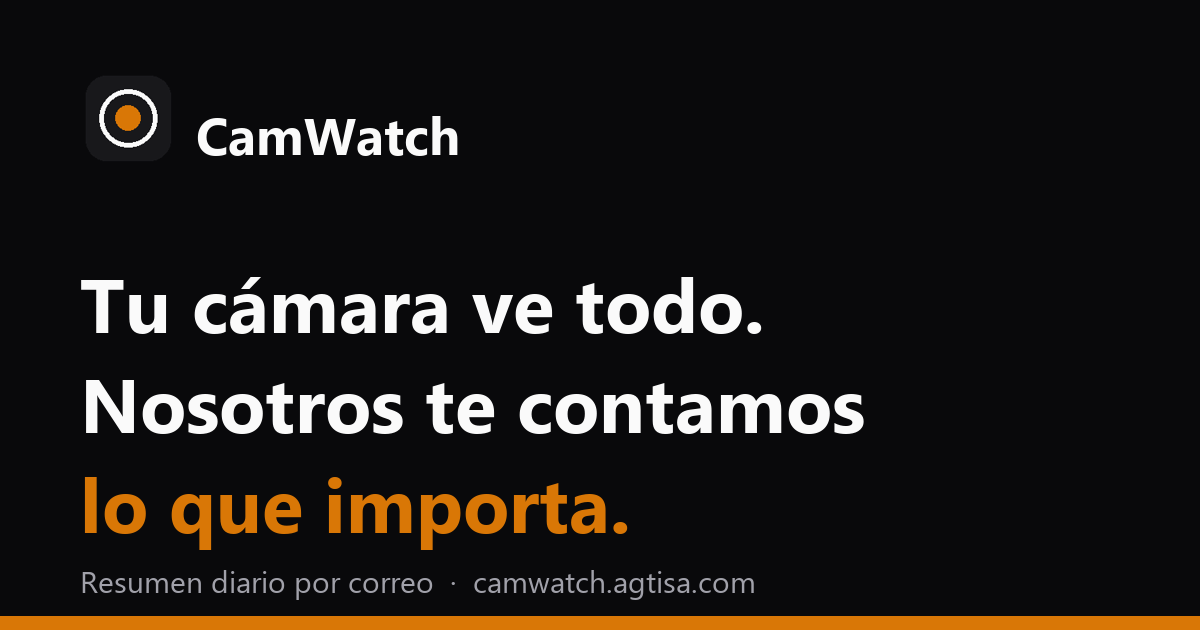
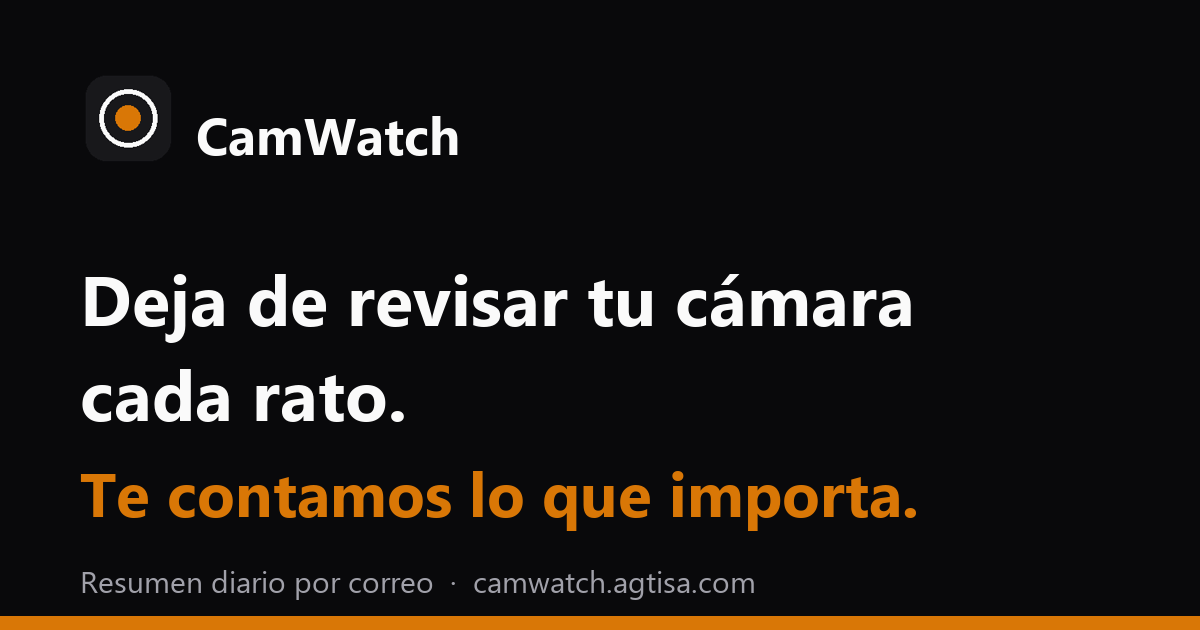
Update hero copy and CTA wording

Changed region(s): [[0.0617, 0.4222, 0.7708, 0.5429], [0.0617, 0.754, 0.7708, 0.8746], [0.0617, 0.6032, 0.74, 0.6937]]

diff --git a/index.html b/index.html
@@ -3,7 +3,7 @@
 <head>
 <meta charset="utf-8">
 <meta name="viewport" content="width=device-width, initial-scale=1, viewport-fit=cover">
-<title>CamWatch — Tu cámara vigila, nosotros te contamos lo que importa</title>
+<title>CamWatch — Deja de revisar tu cámara cada rato</title>
 <meta name="description" content="CamWatch revisa los eventos de tu cámara y te envía un resumen claro por correo: todo normal o algo que merece tu atención. Sin apps nuevas, sin notificaciones a cada rato.">
 <meta name="theme-color" content="#fafaf9">
 <link rel="manifest" href="manifest.webmanifest">
@@ -15,7 +15,7 @@
 <!-- Open Graph para Facebook -->
 <meta property="og:type" content="website">
 <meta property="og:url" content="https://camwatch.agtisa.com/">
-<meta property="og:title" content="CamWatch — Tu cámara ve todo. Nosotros te contamos lo que importa.">
+<meta property="og:title" content="CamWatch — Deja de revisar tu cámara cada rato. Te contamos lo que importa.">
 <meta property="og:description" content="Un resumen diario en español de lo que pasó frente a tu cámara. Sin notificaciones a cada rato. Primera semana gratis.">
 <meta property="og:image" content="https://camwatch.agtisa.com/og-image.png">
 <style>
@@ -86,10 +86,10 @@
   </header>
 
   <section class="hero">
-    <h1>Tu cámara ve todo.<br><span class="em">Nosotros te contamos lo que importa.</span></h1>
+    <h1>Deja de revisar tu cámara cada rato.<br><span class="em">Te contamos lo que importa.</span></h1>
     <p>¿Cansado de notificaciones a cada rato? CamWatch revisa los eventos de tu cámara
        y te manda un solo resumen claro por correo: <b>todo normal</b>, o lo que sí merece tu atención.</p>
-    <a class="cta" id="cta-main" href="mailto:info@agtisa.com?subject=Quiero%20probar%20CamWatch%20gratis&body=Hola,%20quiero%20mi%20semana%20gratis%20de%20CamWatch.%20Mi%20nombre%20es%3A%20">Quiero mi semana gratis</a>
+    <a class="cta" id="cta-main" href="mailto:info@agtisa.com?subject=Quiero%20probar%20CamWatch%20gratis&body=Hola,%20quiero%20mi%20semana%20gratis%20de%20CamWatch.%20Mi%20nombre%20es%3A%20">Escríbenos para probarlo</a>
     <p class="cta-sub">Sin tarjeta · Sin apps nuevas · Cancela cuando quieras</p>
   </section>
 
@@ -126,7 +126,7 @@
       <li>Puedes compartir el resumen con tu familia</li>
       <li>Cancelas cuando quieras, sin preguntas</li>
     </ul>
-    <a class="cta" href="mailto:info@agtisa.com?subject=Quiero%20probar%20CamWatch%20gratis&body=Hola,%20quiero%20mi%20semana%20gratis%20de%20CamWatch.%20Mi%20nombre%20es%3A%20">Empezar gratis</a>
+    <a class="cta" href="mailto:info@agtisa.com?subject=Quiero%20probar%20CamWatch%20gratis&body=Hola,%20quiero%20mi%20semana%20gratis%20de%20CamWatch.%20Mi%20nombre%20es%3A%20">Escríbenos para probarlo</a>
   </div>
 
   <h2>Preguntas frecuentes</h2>
